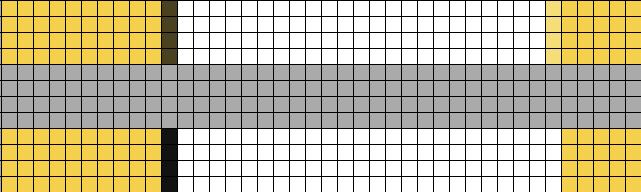
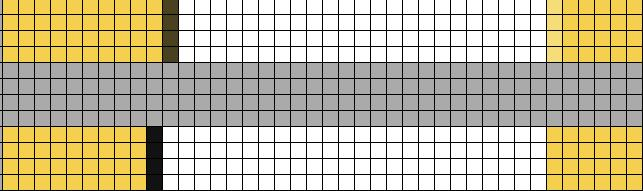
docs: update readme

diff --git a/README.md b/README.md
@@ -150,15 +150,17 @@ I tried different values on the CSS padding and also tried CSS border and outlin
 
     <img src="./_docs/outline_pad24.jpg" width="200"/>
 
-The `border` takes up space and it's drawn inside the element's box.
+As you may notice, the result of #1 (using `border` and `24px` padding) looks the same with #4 (using `outline` and `24px` padding). But they're different:
+
+The **borders** are drawn inside the element's box, so the overall card size includes the borders.
 
 <img src="./_docs/box_border.jpg" width="400">
 
-While `outline` doesn't take space and it's drawn outside the element's box. Although we see in the inspector that the box displays the same dimensions with the design, the actual box size is bigger.
+While the **outlines** are drawn outside the element's box, so the overall card size does not include the **outlines**. We can see in the inspector, the dimension of the box without the outlines. Maybe we can choose this option if in Figma the stroke property position is **outside**.
 
 <img src="./_docs/box_outline.jpg" width="400">
 
-I choose to use `border` and reduce the `padding` to `23px` so the overall card size matches with the design. If I use `24px` for padding, it would make the card bigger for 2 pixels on horizontal and on vertical.
+So, I choose to use `border` and reduce the `padding` to `23px` so the overall card size matches with the design. If I use `24px` for padding (Like it's set on Figma design), it would make the card bigger for 2 pixels on horizontal and on vertical.
 
 ##### 🔷 Line Height Issue
 
@@ -185,7 +187,7 @@ If we do the calculations it kind of makes sense. `100px` in `125%` display scal
 
 - Usually when I saw a card component, it didn't have interactive elements inside the card. But the card element itself as a whole is interactive (can get focus, hover, has animation, etc). So this challange is a bit confusing to me. But nevertheless, I did the challenge by adding the anchor element inside the heading, wrapping the text.
 - I used `figure` element to wrap the image, but I removed it. As this is only a component, and the blog page will list many of this components so the image won't relate with the main content of the page. What is you opinion?
-- Do you wrap published date with the `time` element?
+- Is wrapping published date with the `time` element a best practice?
 - I'm using BEM together with nested CSS. Do you recommend this method for more complex challenge?
 - Feels free to give suggestions if you see some of my code needs improvements.
 - And also I would greatly appreciate if you could review and give feedback (or comments) to my process and discoveries on this challenge.
